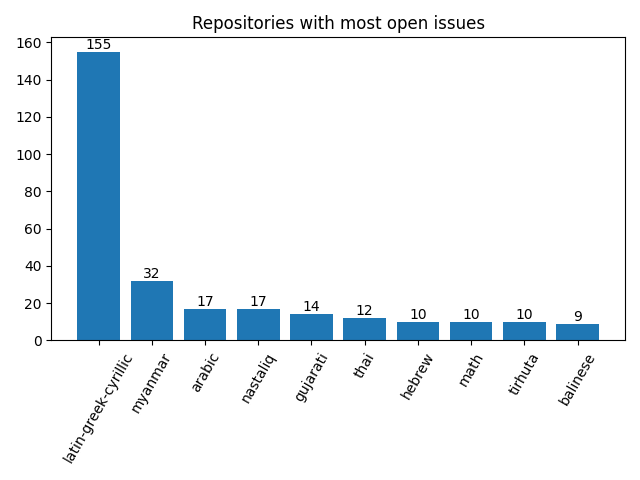
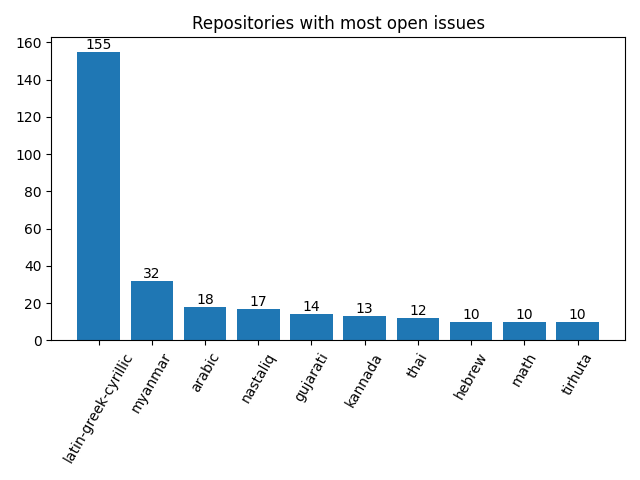
Apply automatic changes

diff --git a/docs/analytics.html b/docs/analytics.html
@@ -89,8 +89,8 @@ td .material-icons { display:inline-flex; vertical-align: top; font-size:1.1rem;
 						</tr>
 						<tr>
 							<td>May</td>
-							<td>1</td>
-							<td>12</td>
+							<td>7</td>
+							<td>14</td>
 						</tr>
 					</table>
 				</div>
@@ -122,7 +122,7 @@ td .material-icons { display:inline-flex; vertical-align: top; font-size:1.1rem;
 							<td>
 								<a href="http://github.com/notofonts/arabic/issues">arabic</a>
 							</td>
-							<td>17</td>
+							<td>18</td>
 						</tr>
 						<tr>
 							<td>
@@ -135,6 +135,12 @@ td .material-icons { display:inline-flex; vertical-align: top; font-size:1.1rem;
 								<a href="http://github.com/notofonts/gujarati/issues">gujarati</a>
 							</td>
 							<td>14</td>
+						</tr>
+						<tr>
+							<td>
+								<a href="http://github.com/notofonts/kannada/issues">kannada</a>
+							</td>
+							<td>13</td>
 						</tr>
 						<tr>
 							<td>
@@ -160,12 +166,6 @@ td .material-icons { display:inline-flex; vertical-align: top; font-size:1.1rem;
 							</td>
 							<td>10</td>
 						</tr>
-						<tr>
-							<td>
-								<a href="http://github.com/notofonts/balinese/issues">balinese</a>
-							</td>
-							<td>9</td>
-						</tr>
 					</table>
 				</div>
 				<div class="col">
@@ -181,13 +181,13 @@ td .material-icons { display:inline-flex; vertical-align: top; font-size:1.1rem;
 				<tr>
 					<td>1</td>
 					<td>
-						<a href="http://github.com/notofonts/bamum/issues">bamum</a>,  						<a href="http://github.com/notofonts/brahmi/issues">brahmi</a>,  						<a href="http://github.com/notofonts/canadian-aboriginal/issues">canadian-aboriginal</a>,  						<a href="http://github.com/notofonts/cham/issues">cham</a>,  						<a href="http://github.com/notofonts/deseret/issues">deseret</a>,  						<a href="http://github.com/notofonts/duployan/issues">duployan</a>,  						<a href="http://github.com/notofonts/hanunoo/issues">hanunoo</a>,  						<a href="http://github.com/notofonts/inscriptional-parthian/issues">inscriptional-parthian</a>,  						<a href="http://github.com/notofonts/kawi/issues">kawi</a>,  						<a href="http://github.com/notofonts/kharoshthi/issues">kharoshthi</a>,  						<a href="http://github.com/notofonts/khitan-small-script/issues">khitan-small-script</a>,  						<a href="http://github.com/notofonts/khojki/issues">khojki</a>,  						<a href="http://github.com/notofonts/khudawadi/issues">khudawadi</a>,  						<a href="http://github.com/notofonts/linear-a/issues">linear-a</a>,  						<a href="http://github.com/notofonts/meetei-mayek/issues">meetei-mayek</a>,  						<a href="http://github.com/notofonts/miao/issues">miao</a>,  						<a href="http://github.com/notofonts/nko/issues">nko</a>,  						<a href="http://github.com/notofonts/nushu/issues">nushu</a>,  						<a href="http://github.com/notofonts/old-italic/issues">old-italic</a>,  						<a href="http://github.com/notofonts/pahawh-hmong/issues">pahawh-hmong</a>,  						<a href="http://github.com/notofonts/saurashtra/issues">saurashtra</a>,  						<a href="http://github.com/notofonts/sign-writing/issues">sign-writing</a>,  						<a href="http://github.com/notofonts/tai-le/issues">tai-le</a> 
+						<a href="http://github.com/notofonts/bamum/issues">bamum</a>,  						<a href="http://github.com/notofonts/brahmi/issues">brahmi</a>,  						<a href="http://github.com/notofonts/canadian-aboriginal/issues">canadian-aboriginal</a>,  						<a href="http://github.com/notofonts/cham/issues">cham</a>,  						<a href="http://github.com/notofonts/deseret/issues">deseret</a>,  						<a href="http://github.com/notofonts/duployan/issues">duployan</a>,  						<a href="http://github.com/notofonts/hanunoo/issues">hanunoo</a>,  						<a href="http://github.com/notofonts/inscriptional-parthian/issues">inscriptional-parthian</a>,  						<a href="http://github.com/notofonts/kawi/issues">kawi</a>,  						<a href="http://github.com/notofonts/kharoshthi/issues">kharoshthi</a>,  						<a href="http://github.com/notofonts/khitan-small-script/issues">khitan-small-script</a>,  						<a href="http://github.com/notofonts/khojki/issues">khojki</a>,  						<a href="http://github.com/notofonts/khudawadi/issues">khudawadi</a>,  						<a href="http://github.com/notofonts/linear-a/issues">linear-a</a>,  						<a href="http://github.com/notofonts/meetei-mayek/issues">meetei-mayek</a>,  						<a href="http://github.com/notofonts/miao/issues">miao</a>,  						<a href="http://github.com/notofonts/multani/issues">multani</a>,  						<a href="http://github.com/notofonts/nko/issues">nko</a>,  						<a href="http://github.com/notofonts/nushu/issues">nushu</a>,  						<a href="http://github.com/notofonts/old-italic/issues">old-italic</a>,  						<a href="http://github.com/notofonts/pahawh-hmong/issues">pahawh-hmong</a>,  						<a href="http://github.com/notofonts/saurashtra/issues">saurashtra</a>,  						<a href="http://github.com/notofonts/sign-writing/issues">sign-writing</a>,  						<a href="http://github.com/notofonts/tai-le/issues">tai-le</a> 
 					</td>
 				</tr>
 				<tr>
 					<td>2</td>
 					<td>
-						<a href="http://github.com/notofonts/chorasmian/issues">chorasmian</a>,  						<a href="http://github.com/notofonts/coptic/issues">coptic</a>,  						<a href="http://github.com/notofonts/elbasan/issues">elbasan</a>,  						<a href="http://github.com/notofonts/elymaic/issues">elymaic</a>,  						<a href="http://github.com/notofonts/hanifi-rohingya/issues">hanifi-rohingya</a>,  						<a href="http://github.com/notofonts/inscriptional-pahlavi/issues">inscriptional-pahlavi</a>,  						<a href="http://github.com/notofonts/limbu/issues">limbu</a>,  						<a href="http://github.com/notofonts/lydian/issues">lydian</a>,  						<a href="http://github.com/notofonts/marchen/issues">marchen</a>,  						<a href="http://github.com/notofonts/meroitic/issues">meroitic</a>,  						<a href="http://github.com/notofonts/multani/issues">multani</a>,  						<a href="http://github.com/notofonts/music/issues">music</a>,  						<a href="http://github.com/notofonts/ottoman-siyaq-numbers/issues">ottoman-siyaq-numbers</a>,  						<a href="http://github.com/notofonts/phags-pa/issues">phags-pa</a>,  						<a href="http://github.com/notofonts/psalter-pahlavi/issues">psalter-pahlavi</a>,  						<a href="http://github.com/notofonts/takri/issues">takri</a>,  						<a href="http://github.com/notofonts/tamil/issues">tamil</a>,  						<a href="http://github.com/notofonts/thaana/issues">thaana</a>,  						<a href="http://github.com/notofonts/yezidi/issues">yezidi</a> 
+						<a href="http://github.com/notofonts/chorasmian/issues">chorasmian</a>,  						<a href="http://github.com/notofonts/coptic/issues">coptic</a>,  						<a href="http://github.com/notofonts/elbasan/issues">elbasan</a>,  						<a href="http://github.com/notofonts/elymaic/issues">elymaic</a>,  						<a href="http://github.com/notofonts/hanifi-rohingya/issues">hanifi-rohingya</a>,  						<a href="http://github.com/notofonts/inscriptional-pahlavi/issues">inscriptional-pahlavi</a>,  						<a href="http://github.com/notofonts/limbu/issues">limbu</a>,  						<a href="http://github.com/notofonts/lydian/issues">lydian</a>,  						<a href="http://github.com/notofonts/marchen/issues">marchen</a>,  						<a href="http://github.com/notofonts/meroitic/issues">meroitic</a>,  						<a href="http://github.com/notofonts/music/issues">music</a>,  						<a href="http://github.com/notofonts/ottoman-siyaq-numbers/issues">ottoman-siyaq-numbers</a>,  						<a href="http://github.com/notofonts/phags-pa/issues">phags-pa</a>,  						<a href="http://github.com/notofonts/psalter-pahlavi/issues">psalter-pahlavi</a>,  						<a href="http://github.com/notofonts/takri/issues">takri</a>,  						<a href="http://github.com/notofonts/tamil/issues">tamil</a>,  						<a href="http://github.com/notofonts/thaana/issues">thaana</a>,  						<a href="http://github.com/notofonts/yezidi/issues">yezidi</a> 
 					</td>
 				</tr>
 				<tr>
@@ -223,7 +223,7 @@ td .material-icons { display:inline-flex; vertical-align: top; font-size:1.1rem;
 				<tr>
 					<td>8</td>
 					<td>
-						<a href="http://github.com/notofonts/kannada/issues">kannada</a>,  						<a href="http://github.com/notofonts/malayalam/issues">malayalam</a> 
+						<a href="http://github.com/notofonts/malayalam/issues">malayalam</a> 
 					</td>
 				</tr>
 				<tr>
@@ -252,15 +252,15 @@ td .material-icons { display:inline-flex; vertical-align: top; font-size:1.1rem;
 							<td>
 									<a href="http://github.com/notofonts/latin-greek-cyrillic/issues">latin-greek-cyrillic</a>: 155, 
 
-									<a href="http://github.com/notofonts/arabic/issues">arabic</a>: 17, 
+									<a href="http://github.com/notofonts/arabic/issues">arabic</a>: 18, 
 
 									<a href="http://github.com/notofonts/nastaliq/issues">nastaliq</a>: 17, 
 
 									<a href="http://github.com/notofonts/gujarati/issues">gujarati</a>: 14, 
 
-									<a href="http://github.com/notofonts/hebrew/issues">hebrew</a>: 10, 
+									<a href="http://github.com/notofonts/kannada/issues">kannada</a>: 13, 
 
-									<a href="http://github.com/notofonts/kannada/issues">kannada</a>: 8, 
+									<a href="http://github.com/notofonts/hebrew/issues">hebrew</a>: 10, 
 
 									<a href="http://github.com/notofonts/malayalam/issues">malayalam</a>: 8, 
 
@@ -338,8 +338,6 @@ td .material-icons { display:inline-flex; vertical-align: top; font-size:1.1rem;
 
 									<a href="http://github.com/notofonts/hanifi-rohingya/issues">hanifi-rohingya</a>: 2, 
 
-									<a href="http://github.com/notofonts/multani/issues">multani</a>: 2, 
-
 									<a href="http://github.com/notofonts/music/issues">music</a>: 2, 
 
 									<a href="http://github.com/notofonts/takri/issues">takri</a>: 2, 
@@ -361,6 +359,8 @@ td .material-icons { display:inline-flex; vertical-align: top; font-size:1.1rem;
 									<a href="http://github.com/notofonts/meetei-mayek/issues">meetei-mayek</a>: 1, 
 
 									<a href="http://github.com/notofonts/miao/issues">miao</a>: 1, 
+
+									<a href="http://github.com/notofonts/multani/issues">multani</a>: 1, 
 
 									<a href="http://github.com/notofonts/nko/issues">nko</a>: 1, 
 
